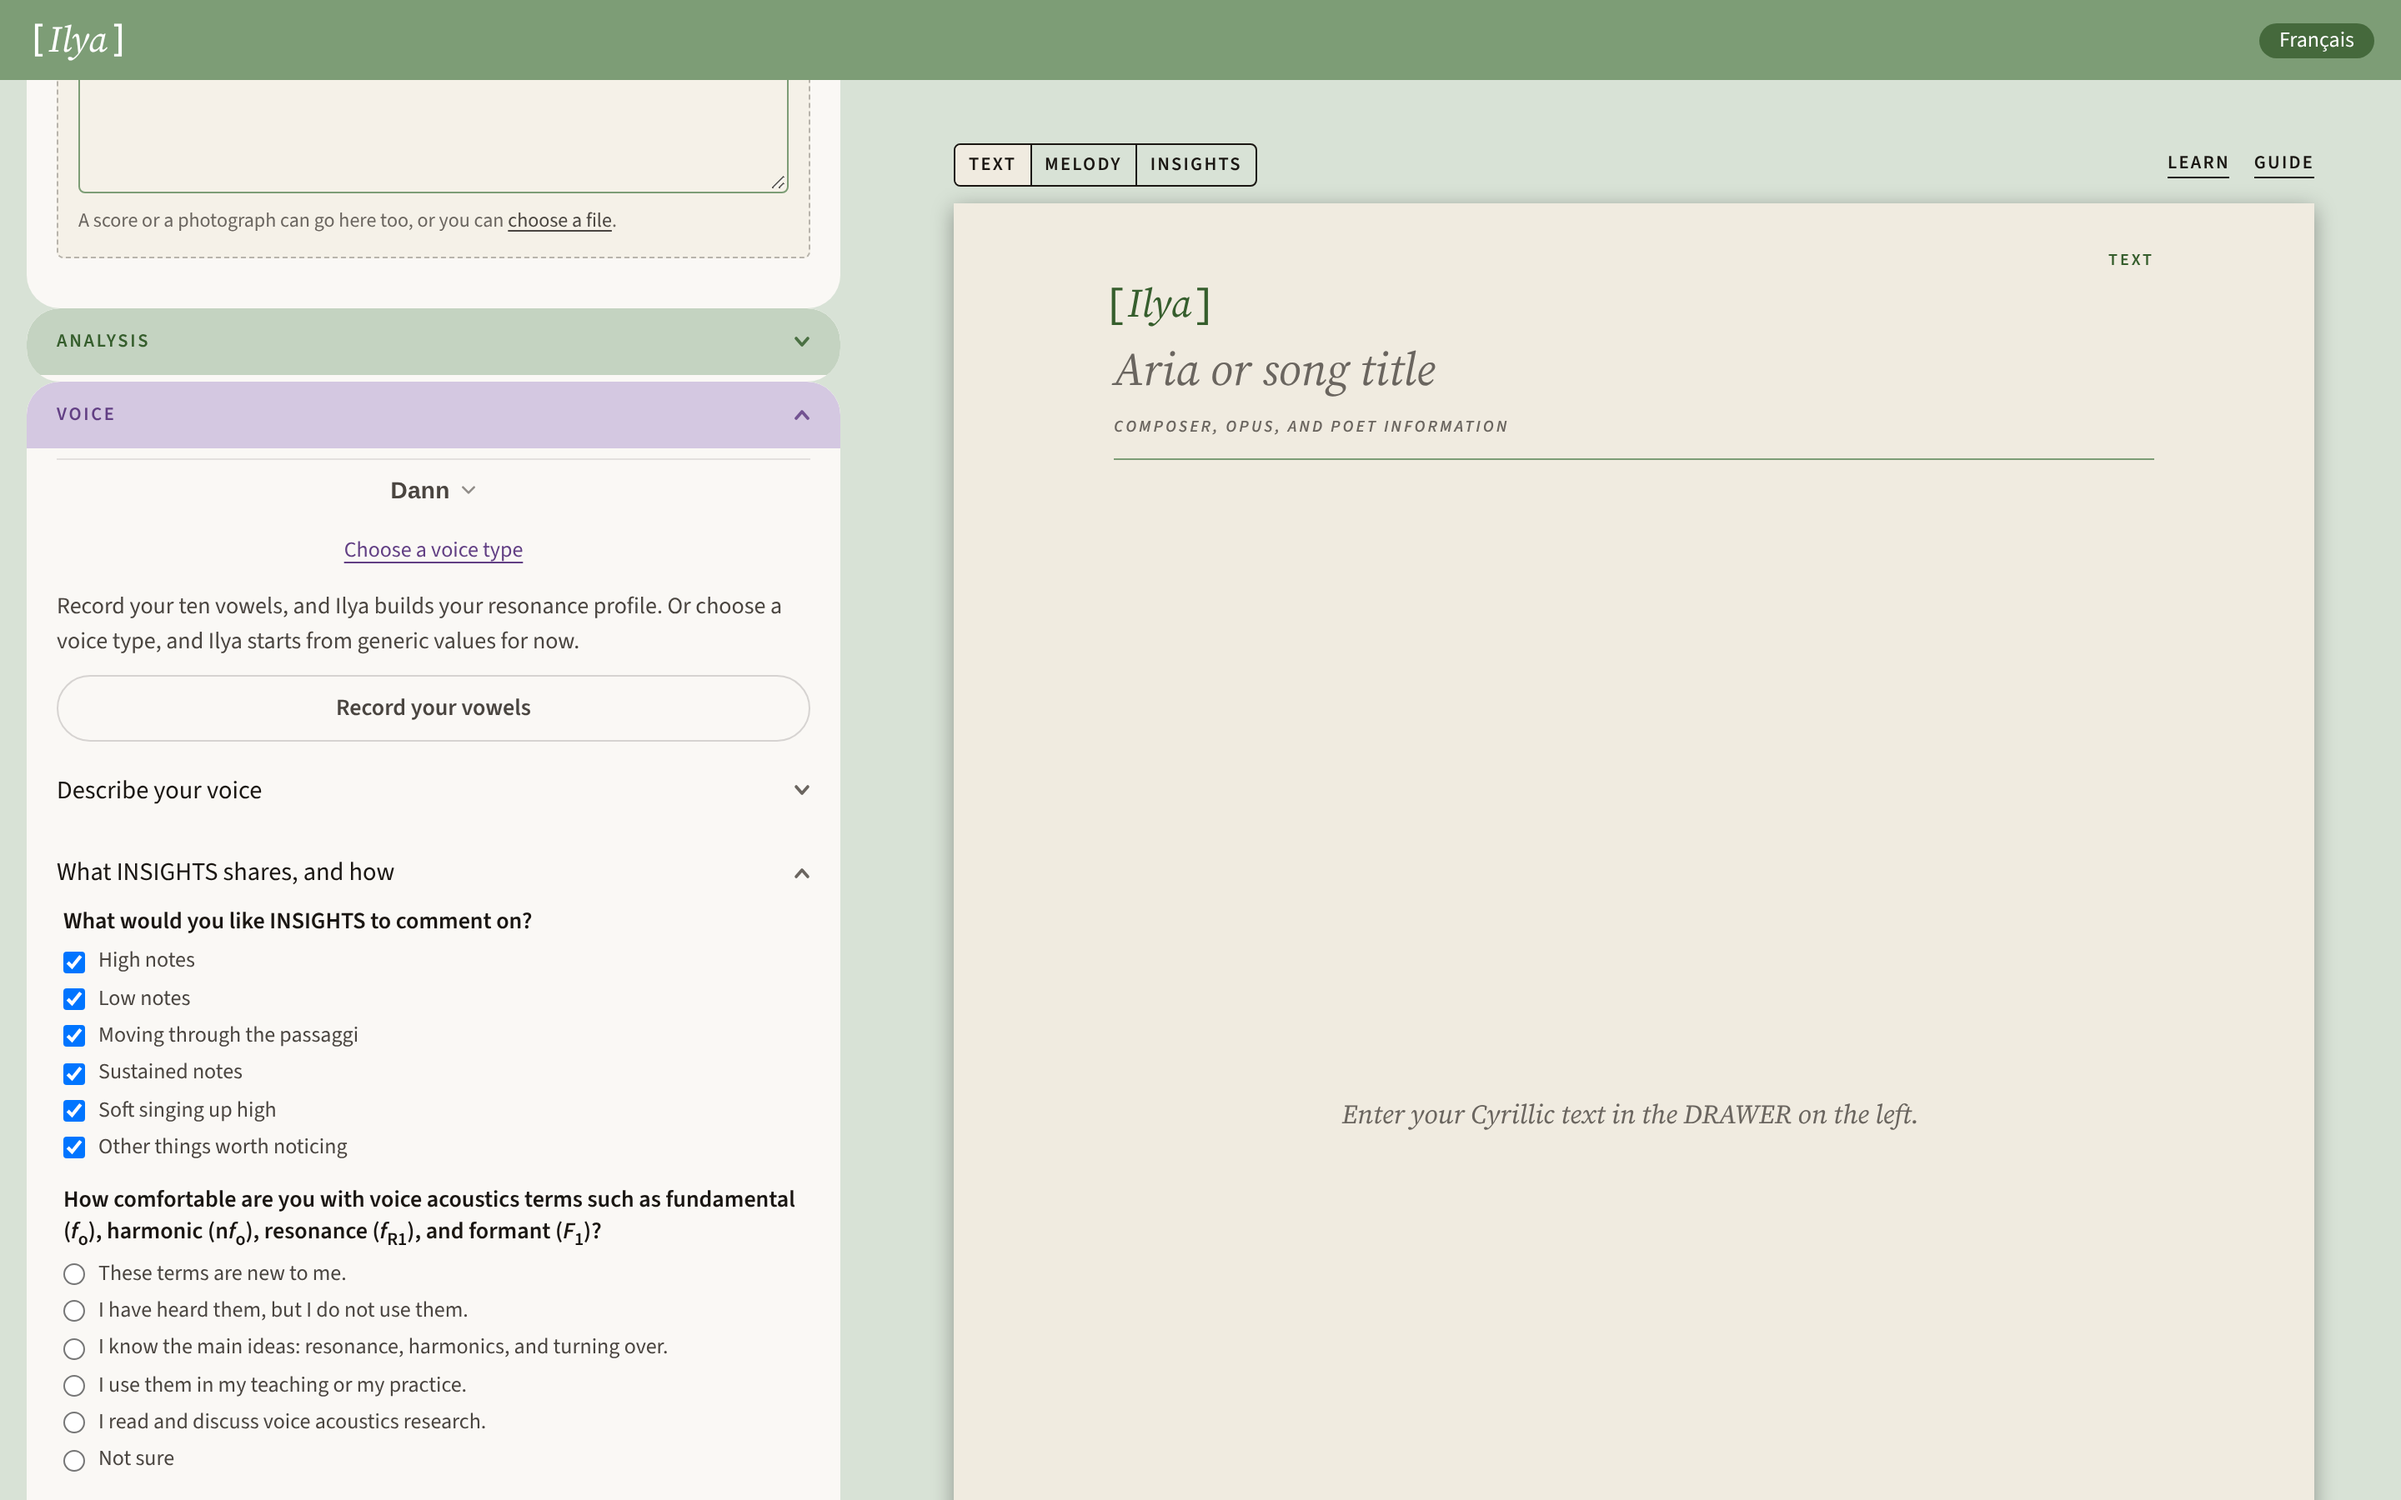
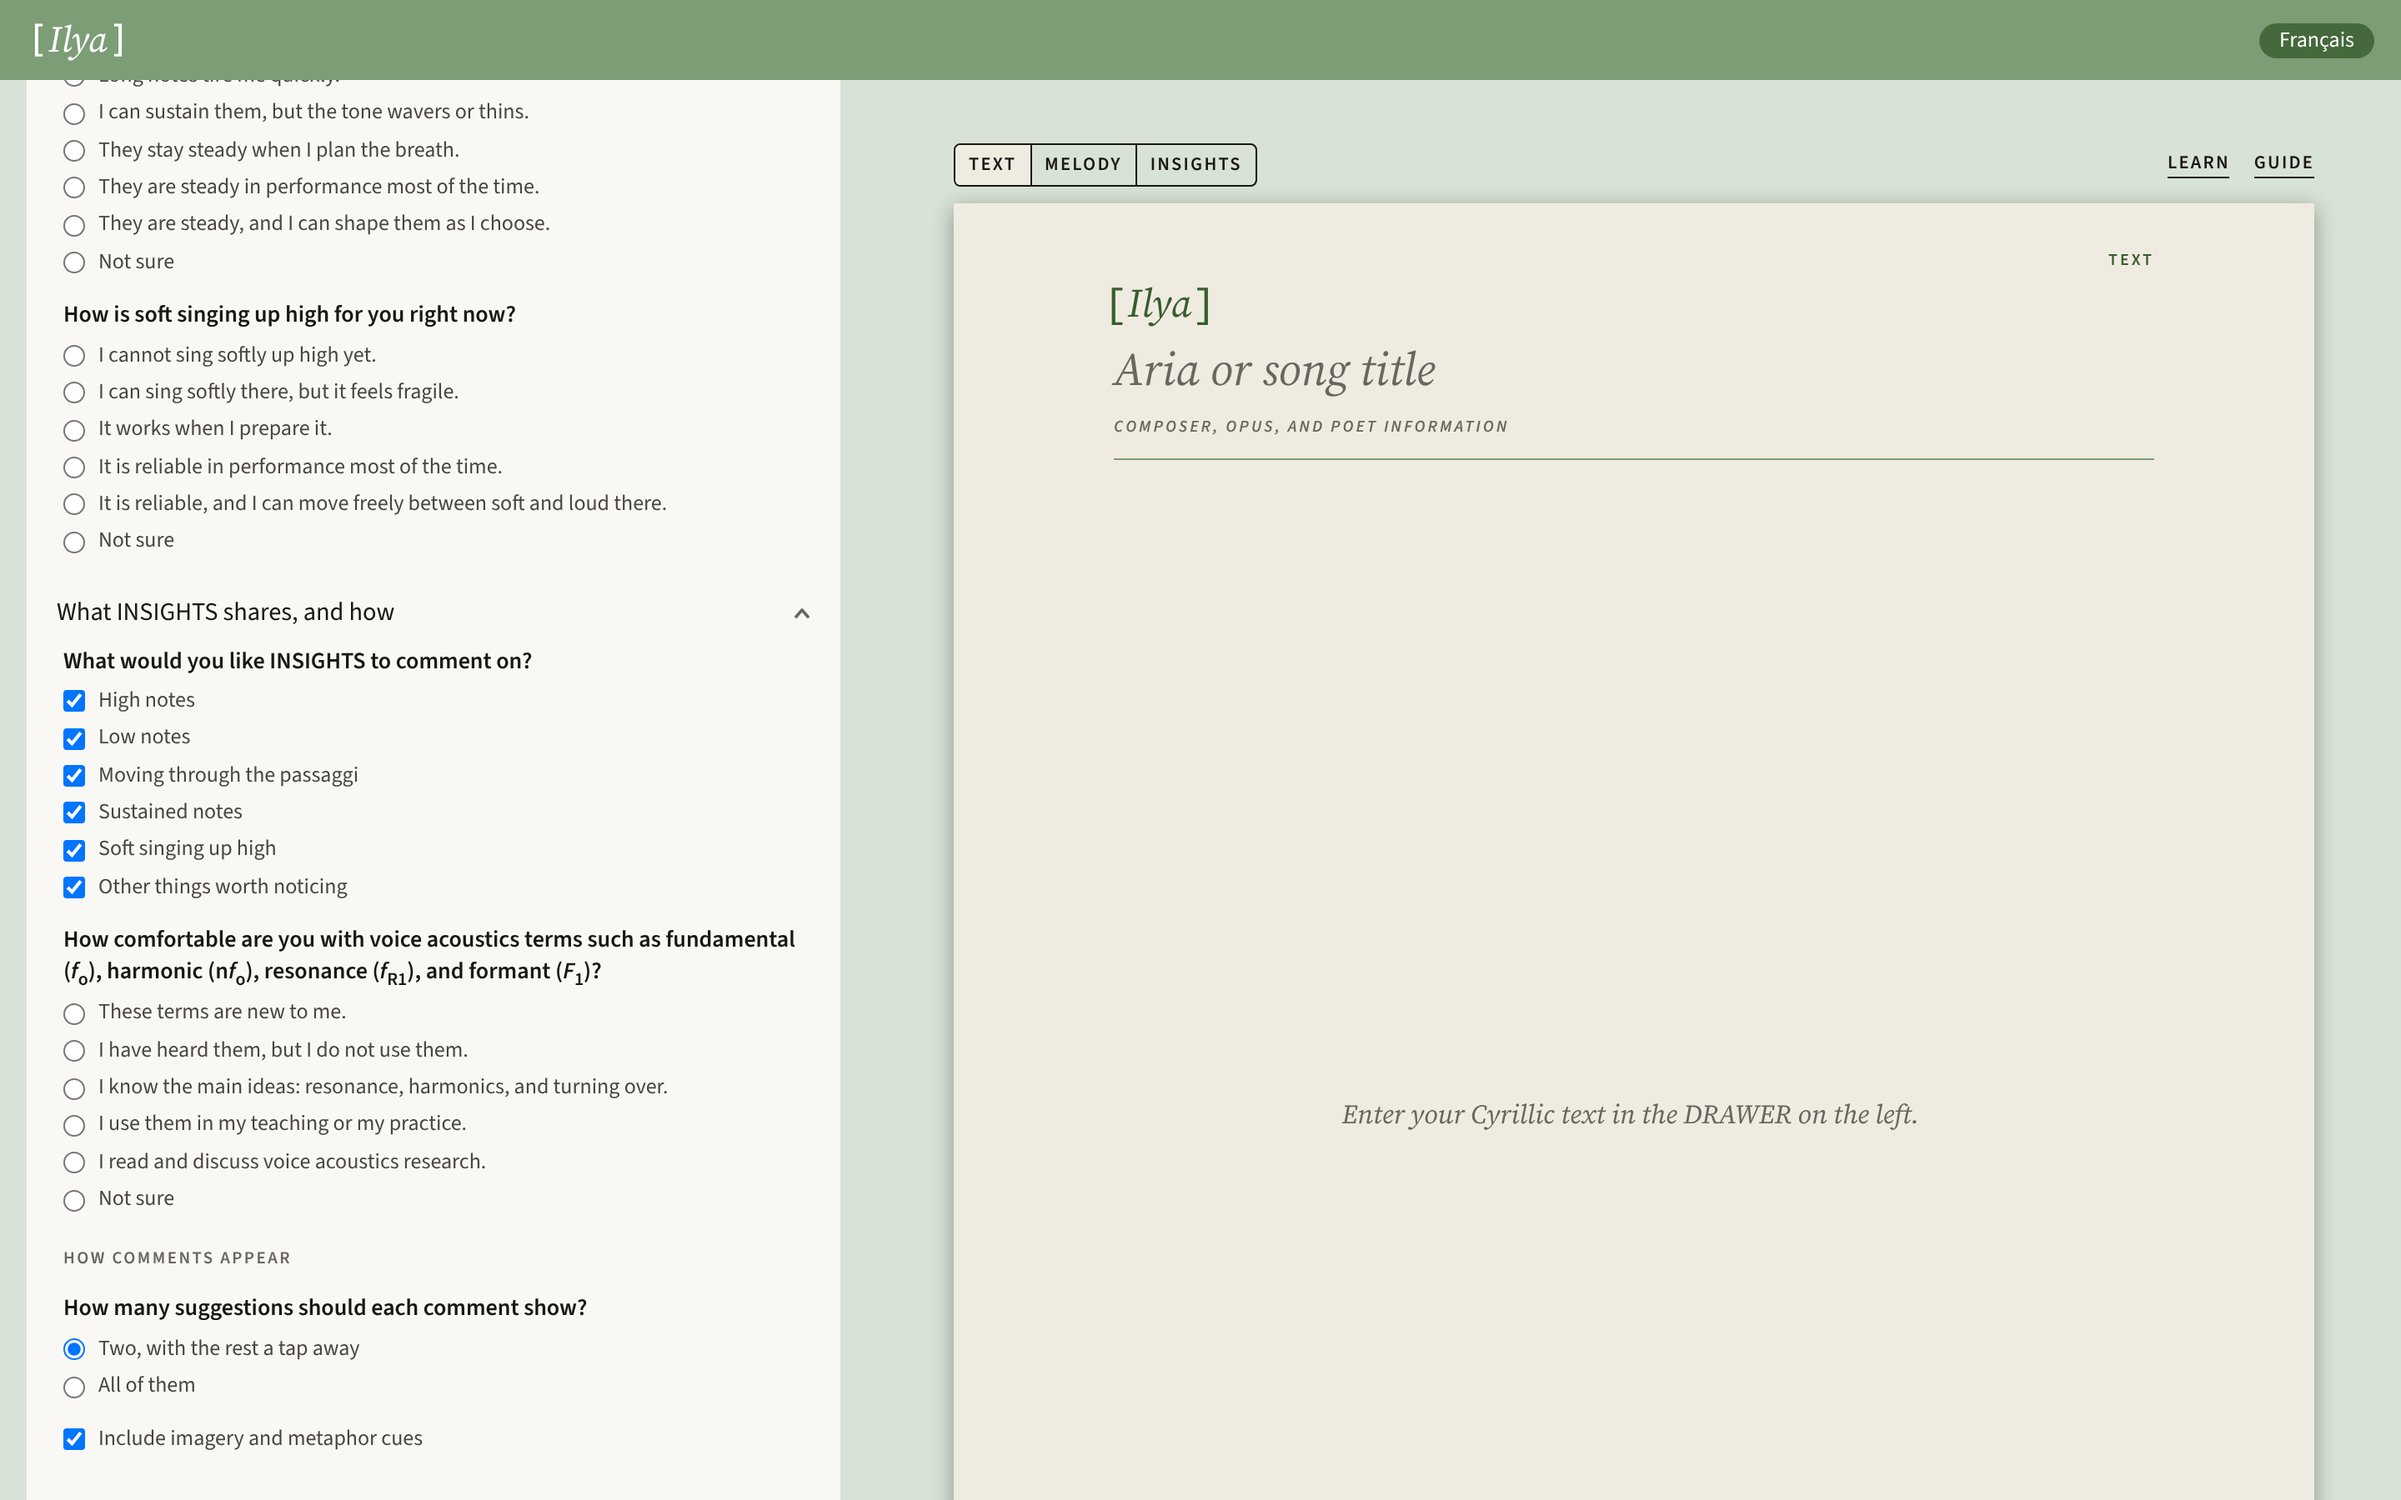
Lane 63 step 4: lane 61's two both-open pictures retaken with both stations open
Claude-Session: https://claude.ai/code/session_01Vk7wM6ba7VEbbVux32y36Z

Changed region(s): [[0.0, 0.4044, 0.3125, 0.9956], [0.0, 0.0622, 0.375, 0.3733]]

diff --git a/docs/sessions/report-code-lane63-step4_r1_2026-11-17.md b/docs/sessions/report-code-lane63-step4_r1_2026-11-17.md
@@ -1,0 +1,25 @@
+# Report: lane 63, Step 4 (lane 61's two pictures)
+
+2026-11-17. Branch `cloud-lane-63`. Only the two named files changed.
+
+## What changed
+
+`docs/sessions/report-code-n203-lane61-pictures/step1-desk-en-both-open.png` and `step1-desk-fr-both-open.png` are retaken under the same names. The old pair showed "Describe your voice" closed and "What INSIGHTS shares, and how" open.
+
+Both new pictures are 1440 by 900 at 2x (2880 by 1800, the old pair's size), the stub session (`?capture=stub`), no voice type, the returning-browser storage state. In each, both stations were opened and I read `aria-expanded` as `true` on both headers before the shot (English "Describe your voice" and "What INSIGHTS shares, and how"; French « Décrire votre voix » and « Ce que partagent les APERÇUS, et comment »).
+
+I looked at both. Both stations cannot have their headers in one 900 px frame: the Describe station's questions run longer than the window. So each picture is scrolled to the join. What it shows:
+
+- English: the last Describe questions at the top (sustained notes, "How is soft singing up high for you right now?", each with "Not sure"), then the INSIGHTS station header with its chevron open, "What would you like INSIGHTS to comment on?" with six boxes ticked, the acoustics question, "How comments appear", and the suggestions question.
+- French: the same, with the French text, including « Ce que partagent les APERÇUS, et comment ».
+
+The "Describe your voice" header itself is scrolled out of frame in both, so the picture shows that station open by its body, not by its header. If the desk wants the Describe header in frame with it open, that needs a taller window or a separate shot.
+
+## Tests
+
+None (pictures only).
+
+## What I could not establish
+
+- Whether the desk wants a different scroll position; it was my choice (the join), within "both stations open".
+- The old pair's scale was 2x by file size; I matched it.
